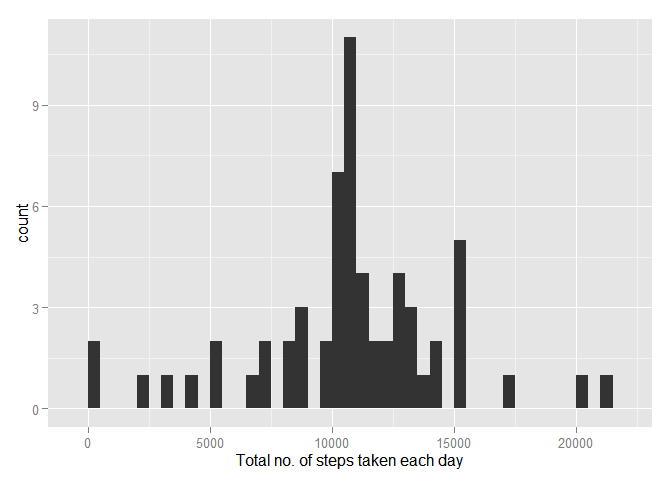
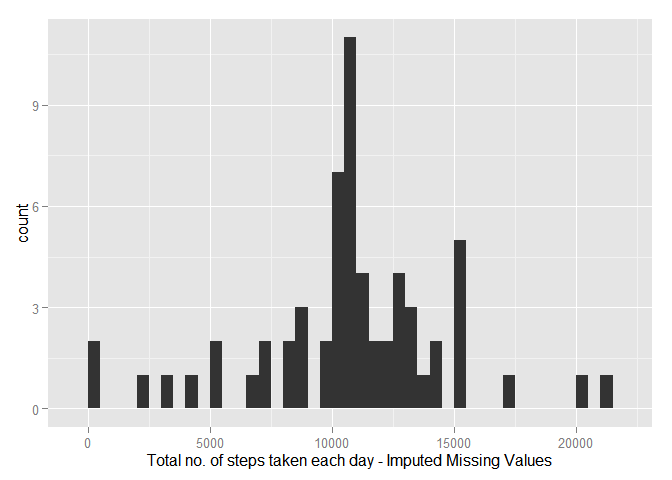
Course Project 1 - updated

Changed region(s): [[0.2188, 0.9375, 0.8125, 0.9688]]

diff --git a/PA1_template.html b/PA1_template.html
@@ -166,8 +166,8 @@ filled.actvtyData$steps &lt;- mapply(fill.value, filled.actvtyData$steps, filled
 <div id="section" class="section level2">
 <h2>————————————————————————</h2>
 <pre class="r"><code>totsteps &lt;- tapply(filled.actvtyData$steps, filled.actvtyData$date, FUN=sum)
-qplot(totsteps, binwidth=500, xlab=&quot;Total no. of steps taken each day&quot;)</code></pre>
[1 lines of base64/hex data omitted]
+qplot(totsteps, binwidth=500, xlab=&quot;Total no. of steps taken each day - Imputed Missing Values&quot;)</code></pre>
[1 lines of base64/hex data omitted]
 <pre class="r"><code>mean(totsteps)</code></pre>
 <pre><code>## [1] 10766.19</code></pre>
 <pre class="r"><code>median(totsteps)</code></pre>

diff --git a/PA1_template.md b/PA1_template.md
@@ -101,7 +101,7 @@ filled.actvtyData$steps <- mapply(fill.value, filled.actvtyData$steps, filled.ac
 
 ```r
 totsteps <- tapply(filled.actvtyData$steps, filled.actvtyData$date, FUN=sum)
-qplot(totsteps, binwidth=500, xlab="Total no. of steps taken each day")
+qplot(totsteps, binwidth=500, xlab="Total no. of steps taken each day - Imputed Missing Values")
 ```
 
 ![](PA1_template_files/figure-html/unnamed-chunk-6-1.png) 
